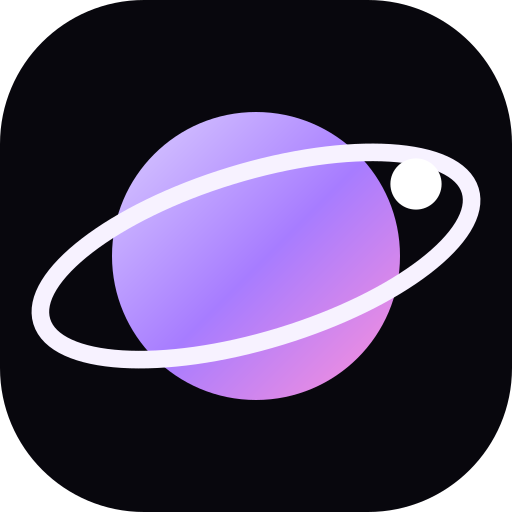
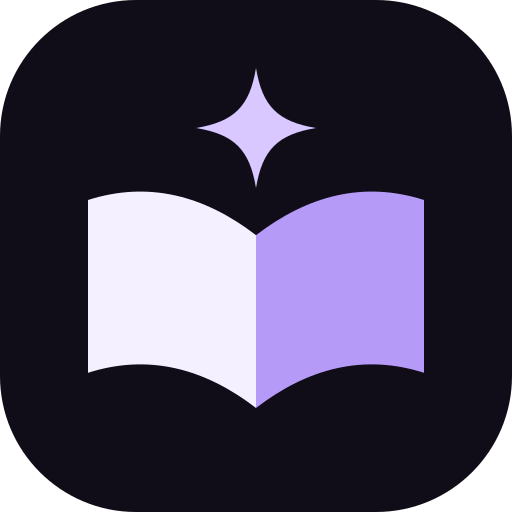
Introduce Study Verse book and star identity (#7)

diff --git a/components/tsv.tsx b/components/tsv.tsx
@@ -8,10 +8,10 @@ const nav = [['Masterclasses','/masterclasses'],['Community','/community'],['Res
 export function SectionLabel({ children }: { children: React.ReactNode }) { return <span className="eyebrow">{children}</span>; }
 export function Header() {
   const [open, setOpen] = useState(false);
-  return <header className="site-header"><div className="wrap nav-inner"><Link className="logo" href="/" onClick={() => setOpen(false)} aria-label="The Study Verse home"><span className="logo-icon" aria-hidden="true"><svg viewBox="0 0 36 36" fill="none"><defs><linearGradient id="tsv-mark-gradient" x1="9" y1="8" x2="28" y2="29"><stop stopColor="#d9caff"/><stop offset="1" stopColor="#8b67e9"/></linearGradient></defs><circle cx="18" cy="18" r="10.5" fill="url(#tsv-mark-gradient)"/><ellipse className="mark-orbit" cx="18" cy="18" rx="16" ry="6.4" stroke="currentColor" strokeWidth="1" opacity=".65"/><circle cx="30.5" cy="14.3" r="2" fill="currentColor"/></svg></span><span>The Study Verse</span></Link><nav className="desktop-nav" aria-label="Main navigation">{nav.map(([label,href])=><Link key={href} href={href}>{label}</Link>)}</nav><div className="nav-actions"><a href={socials.discord} target="_blank" rel="noopener noreferrer" className="nav-pill">Join Discord ↗</a></div><button className="menu-toggle" type="button" aria-expanded={open} aria-controls="mobile-menu" aria-label={open ? 'Close menu' : 'Open menu'} onClick={() => setOpen(!open)}>{open ? 'Close' : 'Menu'} <span aria-hidden="true">{open ? '↑' : '↓'}</span></button></div><nav id="mobile-menu" className={open ? 'mobile-nav open' : 'mobile-nav'} aria-label="Mobile navigation">{nav.map(([label,href])=><Link key={href} href={href} onClick={() => setOpen(false)}>{label}<span>↗</span></Link>)}<Link href="/masterclasses/gcse-chemistry" onClick={() => setOpen(false)}>GCSE Chemistry <span>↗</span></Link><a href={socials.discord} target="_blank" rel="noopener noreferrer" onClick={() => setOpen(false)}>Join Discord <span>↗</span></a></nav></header>;
+  return <header className="site-header"><div className="wrap nav-inner"><Link className="logo" href="/" onClick={() => setOpen(false)} aria-label="The Study Verse home"><span className="logo-icon" aria-hidden="true"><Image src="/favicon.svg" alt="" width={36} height={36} priority /></span><span className="logo-wordmark"><span>THE</span><strong>Study Verse</strong></span></Link><nav className="desktop-nav" aria-label="Main navigation">{nav.map(([label,href])=><Link key={href} href={href}>{label}</Link>)}</nav><div className="nav-actions"><a href={socials.discord} target="_blank" rel="noopener noreferrer" className="nav-pill">Join Discord ↗</a></div><button className="menu-toggle" type="button" aria-expanded={open} aria-controls="mobile-menu" aria-label={open ? 'Close menu' : 'Open menu'} onClick={() => setOpen(!open)}>{open ? 'Close' : 'Menu'} <span aria-hidden="true">{open ? '↑' : '↓'}</span></button></div><nav id="mobile-menu" className={open ? 'mobile-nav open' : 'mobile-nav'} aria-label="Mobile navigation">{nav.map(([label,href])=><Link key={href} href={href} onClick={() => setOpen(false)}>{label}<span>↗</span></Link>)}<Link href="/masterclasses/gcse-chemistry" onClick={() => setOpen(false)}>GCSE Chemistry <span>↗</span></Link><a href={socials.discord} target="_blank" rel="noopener noreferrer" onClick={() => setOpen(false)}>Join Discord <span>↗</span></a></nav></header>;
 }
 export function Footer() {
-  return <footer className="site-footer"><div className="wrap"><div className="footer-lead"><SectionLabel>THE STUDY VERSE</SectionLabel><h2>Keep going.<br /><em>We&apos;re with you.</em></h2><a href={`mailto:${site.email}`}>{site.email} ↗</a></div><div className="footer-columns"><div><small>EXPLORE</small>{[['Masterclasses','/masterclasses'],['Community','/community'],['TSV VIP','/vip'],['Courses','/courses'],['Resources','/resources'],['Tutoring','/tutoring'],['About','/about'],['Contact','/contact']].map(([n,h])=><Link href={h} key={h}>{n}</Link>)}</div><div><small>FOLLOW ASH</small>{[['TikTok',socials.tiktok],['Instagram',socials.instagram],['YouTube',socials.youtube],['Discord',socials.discord]].map(([n,h])=><a href={h} key={h} target="_blank" rel="noopener noreferrer">{n} ↗</a>)}</div><div><small>INFORMATION</small>{[['Privacy','/privacy'],['Terms','/terms'],['Refunds','/refunds'],['Cookies','/cookies']].map(([n,h])=><Link href={h} key={h}>{n}</Link>)}</div></div><div className="footer-bottom"><span>© {new Date().getFullYear()} THE STUDY VERSE</span><span>BUILT BY STUDENTS, FOR STUDENTS.</span><a href="#main">BACK TO TOP ↑</a></div></div></footer>;
+  return <footer className="site-footer"><div className="wrap"><div className="footer-lead"><Image className="footer-brand" src="/logo-light.svg" alt="The Study Verse" width={190} height={38} /><h2>Keep going.<br /><em>We&apos;re with you.</em></h2><a href={`mailto:${site.email}`}>{site.email} ↗</a></div><div className="footer-columns"><div><small>EXPLORE</small>{[['Masterclasses','/masterclasses'],['Community','/community'],['TSV VIP','/vip'],['Courses','/courses'],['Resources','/resources'],['Tutoring','/tutoring'],['About','/about'],['Contact','/contact']].map(([n,h])=><Link href={h} key={h}>{n}</Link>)}</div><div><small>FOLLOW ASH</small>{[['TikTok',socials.tiktok],['Instagram',socials.instagram],['YouTube',socials.youtube],['Discord',socials.discord]].map(([n,h])=><a href={h} key={h} target="_blank" rel="noopener noreferrer">{n} ↗</a>)}</div><div><small>INFORMATION</small>{[['Privacy','/privacy'],['Terms','/terms'],['Refunds','/refunds'],['Cookies','/cookies']].map(([n,h])=><Link href={h} key={h}>{n}</Link>)}</div></div><div className="footer-bottom"><span>© {new Date().getFullYear()} THE STUDY VERSE</span><span>BUILT BY STUDENTS, FOR STUDENTS.</span><a href="#main">BACK TO TOP ↑</a></div></div></footer>;
 }
 export function BrandArtwork() { return <div className="brand-artwork" aria-hidden="true"><div className="art-orbit orbit-one"/><div className="art-orbit orbit-two"/><span className="art-star">✳</span><span className="art-word">STUDY<br />VERSE</span><div className="art-coordinate">TSV © 2026<br />BETTER TOGETHER</div></div>; }
 export function CommunityPreview() { return <div className="community-preview"><div className="community-image"><Image src="/assets/discord-banner.png" alt="The Study Verse Discord server banner" fill sizes="(max-width: 760px) 100vw, 50vw" /></div><div className="community-image-caption"><Image src="/assets/discord-icon.png" alt="" width={58} height={58}/><div><strong>THE STUDY VERSE</strong><span>DISCORD COMMUNITY · EST. OCT 2025</span></div><span>↗</span></div></div>; }

diff --git a/app/globals.css b/app/globals.css
@@ -59,3 +59,12 @@ body:not(:has(.reference-home)) #main{padding-top:96px}
 .footer-bottom{border-color:rgba(255,255,255,.18);padding-top:22px;color:#b2a5bf;font:500 10px "Space Mono",monospace;letter-spacing:.07em}
 .footer-bottom a:hover{color:#fff}
 @media(max-width:760px){.nav-inner{min-height:58px}.logo{font-size:.88rem}.footer-lead{display:block}.footer-lead h2{font-size:clamp(63px,13vw,95px);margin:40px 0 35px}.footer-lead>a{font-size:19px}.footer-columns{grid-template-columns:repeat(2,1fr);gap:55px 24px;margin:90px 0 75px}.footer-columns>div:last-child{grid-column:1/-1}.footer-bottom{font-size:9px;line-height:1.6}.site-footer{padding-top:80px}}
+
+/* The Study Verse book and star identity. */
+.logo{gap:.65rem}
+.logo-icon,.logo-icon img{display:block;width:36px;height:36px;flex:none}
+.logo-wordmark{display:flex;flex-direction:column;justify-content:center;gap:2px;line-height:1}
+.logo-wordmark span{font-size:8px;font-weight:700;letter-spacing:.24em;color:#7659c6}
+.logo-wordmark strong{font-size:14px;font-weight:650;letter-spacing:-.055em;color:#100c18}
+.footer-brand{display:block;width:190px;height:auto}
+@media(max-width:760px){.logo-wordmark strong{font-size:12.5px}.logo-wordmark span{font-size:7px}}
